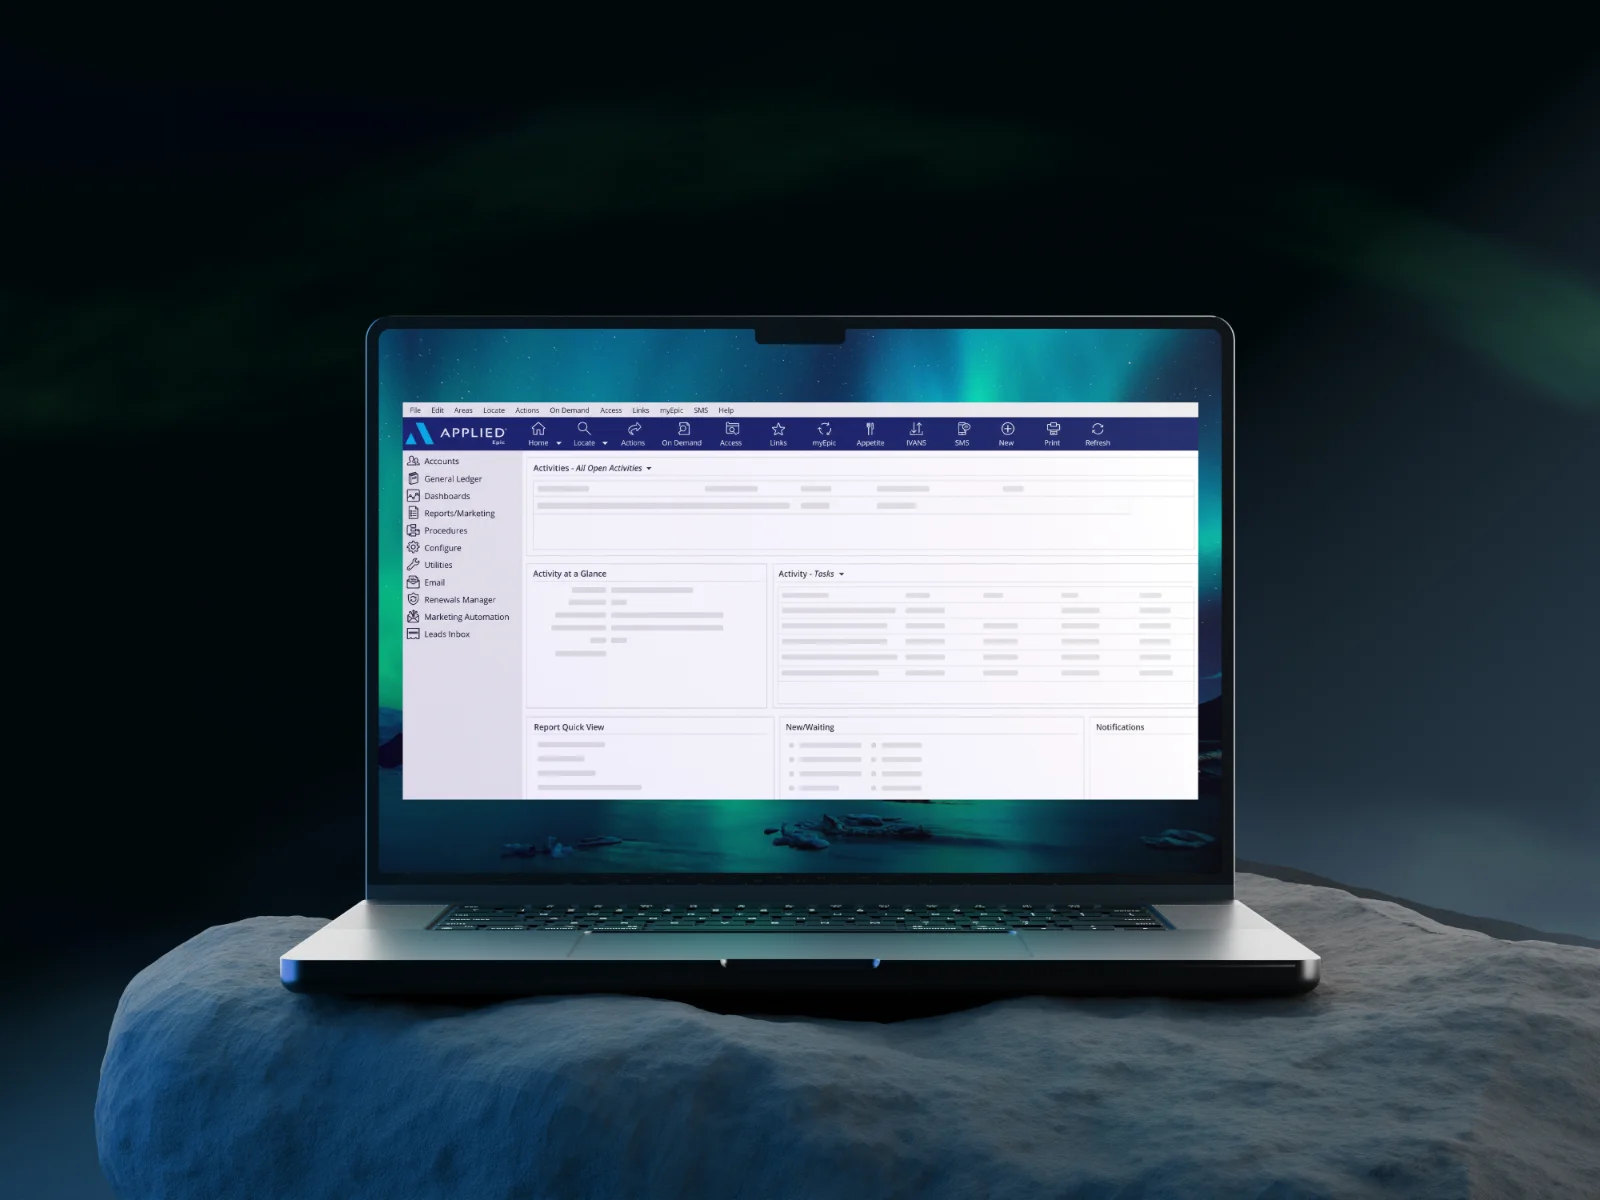
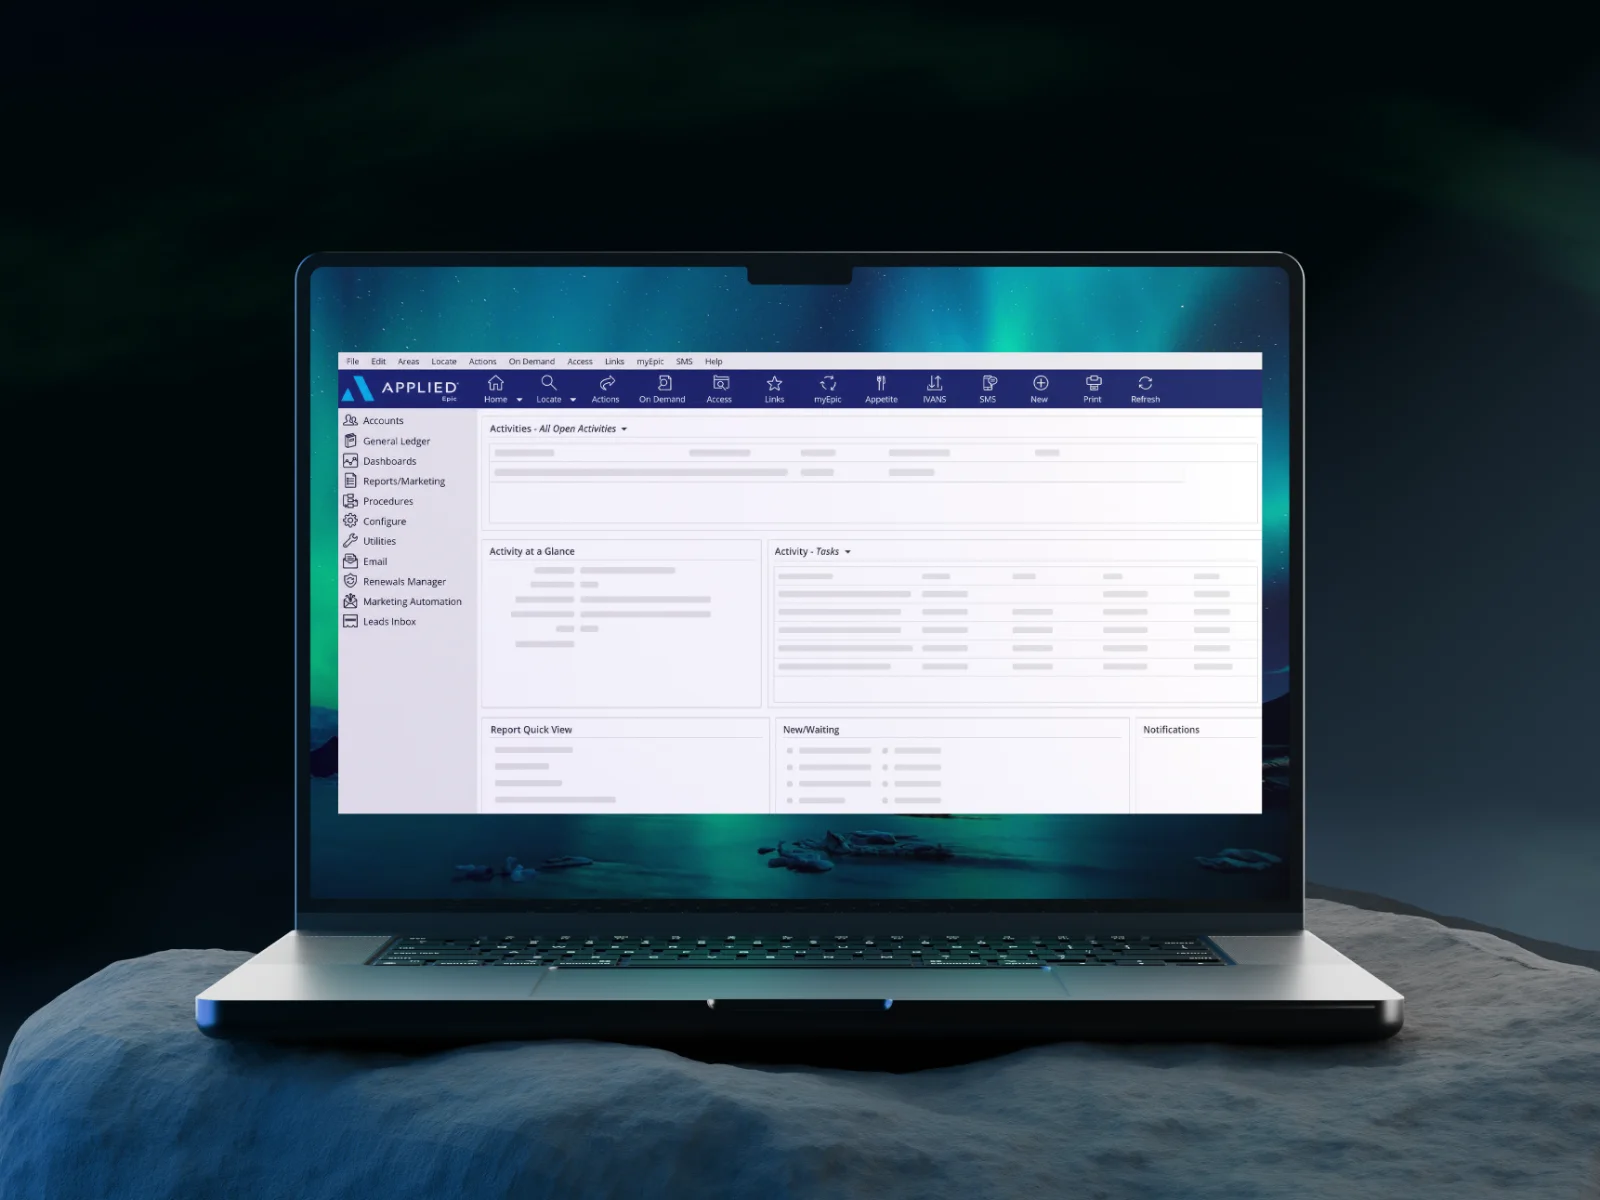
Capture: real headshots on hero cards, updated mockup with rounded corners, subheadline, matching history names
Claude-Session: https://claude.ai/code/session_017c9dFhV1jq5yJqU4bXW5Yd

diff --git a/src/components/yovu/capture/CallCollector.tsx b/src/components/yovu/capture/CallCollector.tsx
@@ -1,6 +1,12 @@
 import { useEffect, useState } from "react";
 import { motion } from "motion/react";
 import { PhoneIncoming, PhoneOutgoing } from "lucide-react";
+import davidSmith from "@/assets/imagery/david-smith.webp";
+import oliviaJohnson from "@/assets/imagery/olivia-johnson.webp";
+import michaelBrown from "@/assets/imagery/michael-brown.webp";
+import annTremblay from "@/assets/imagery/ann-tremblay.webp";
+import noahMartin from "@/assets/imagery/noah-martin.webp";
+import emmaWilson from "@/assets/imagery/emma-wilson.webp";
 
 /**
  * Capture hero animation: client-call cards orbit in a circle, then collapse
@@ -15,15 +21,16 @@ type Call = {
   name: string;
   number: string;
   dir: "in" | "out";
+  photo: string;
 };
 
 const calls: Call[] = [
-  { name: "David Smith", number: "[phone redacted]", dir: "out" },
-  { name: "Olivia Johnson", number: "[phone redacted]", dir: "in" },
-  { name: "Michael Brown", number: "[phone redacted]", dir: "out" },
-  { name: "Ann Tremblay", number: "[phone redacted]", dir: "in" },
-  { name: "Noah Martin", number: "[phone redacted]", dir: "out" },
-  { name: "Emma Wilson", number: "[phone redacted]", dir: "in" },
+  { name: "David Smith", number: "[phone redacted]", dir: "out", photo: davidSmith },
+  { name: "Olivia Johnson", number: "[phone redacted]", dir: "in", photo: oliviaJohnson },
+  { name: "Michael Brown", number: "[phone redacted]", dir: "out", photo: michaelBrown },
+  { name: "Ann Tremblay", number: "[phone redacted]", dir: "in", photo: annTremblay },
+  { name: "Noah Martin", number: "[phone redacted]", dir: "out", photo: noahMartin },
+  { name: "Emma Wilson", number: "[phone redacted]", dir: "in", photo: emmaWilson },
 ];
 
 const COUNT = calls.length;
@@ -31,22 +38,15 @@ const RADIUS = 230;
 const ORBIT_MS = 9000;
 const STACK_HOLD_MS = 2600;
 
-function initials(name: string) {
-  return name
-    .split(" ")
-    .slice(0, 2)
-    .map((w) => w[0])
-    .join("")
-    .toUpperCase();
-}
-
 function CallCard({ call }: { call: Call }) {
   const Dir = call.dir === "in" ? PhoneIncoming : PhoneOutgoing;
   return (
     <div className="flex h-full w-full items-center gap-4 rounded-2xl bg-white/70 px-5 ring-1 ring-black/5 backdrop-blur-xl dark:bg-[#0b1733]/60 dark:ring-white/10">
-      <span className="flex size-16 shrink-0 items-center justify-center rounded-full bg-gradient-to-br from-slate-400 to-slate-600 text-lg font-semibold text-white dark:from-slate-500 dark:to-slate-700">
-        {initials(call.name)}
-      </span>
+      <img
+        src={call.photo}
+        alt=""
+        className="size-16 shrink-0 rounded-full object-cover object-top ring-1 ring-black/5 dark:ring-white/10"
+      />
       <span className="flex min-w-0 flex-1 flex-col">
         <span className="truncate text-lg font-semibold text-ink">{call.name}</span>
         <span className="flex items-center gap-1.5 text-sm text-ink/55">

diff --git a/src/components/yovu/animations/SearchableHistory.tsx b/src/components/yovu/animations/SearchableHistory.tsx
@@ -6,9 +6,9 @@ import { Search, Play } from "lucide-react";
  * calls with client, date, and playback. Matches the feature card style.
  */
 const results = [
-  { name: "James Carter", meta: "Renewal · Mar 4", dur: "6:12" },
-  { name: "Priya Anand", meta: "Policy change · Mar 2", dur: "3:48" },
-  { name: "Marc Tremblay", meta: "New quote · Feb 28", dur: "8:05" },
+  { name: "David Smith", meta: "Renewal · Mar 4", dur: "6:12" },
+  { name: "Olivia Johnson", meta: "Policy change · Mar 2", dur: "3:48" },
+  { name: "Michael Brown", meta: "New quote · Feb 28", dur: "8:05" },
 ];
 
 export function SearchableHistory() {

diff --git a/src/routes/capture.tsx b/src/routes/capture.tsx
@@ -171,8 +171,8 @@ function CaptureHero() {
               <br className="hidden sm:block" /> in one place.
             </h1>
             <p className="mt-4 max-w-xl text-pretty text-lg text-white/80">
-              Don’t just record your calls. YOVU uses AI to summarize details, extract next steps,
-              and log them directly to your client records.
+              Turn calls, texts, and voicemails into easy-to-read records. Our AI automatically
+              extracts key details, recommends next steps, and logs everything right to your system.
             </p>
             <a
               href="/book-demo"
@@ -209,7 +209,7 @@ function CapturePage() {
             alt="Applied Epic shown on a MacBook with YOVU capturing the call"
             loading="lazy"
             decoding="async"
-            className="w-full object-contain"
+            className={zImageClass}
           />
         }
       />